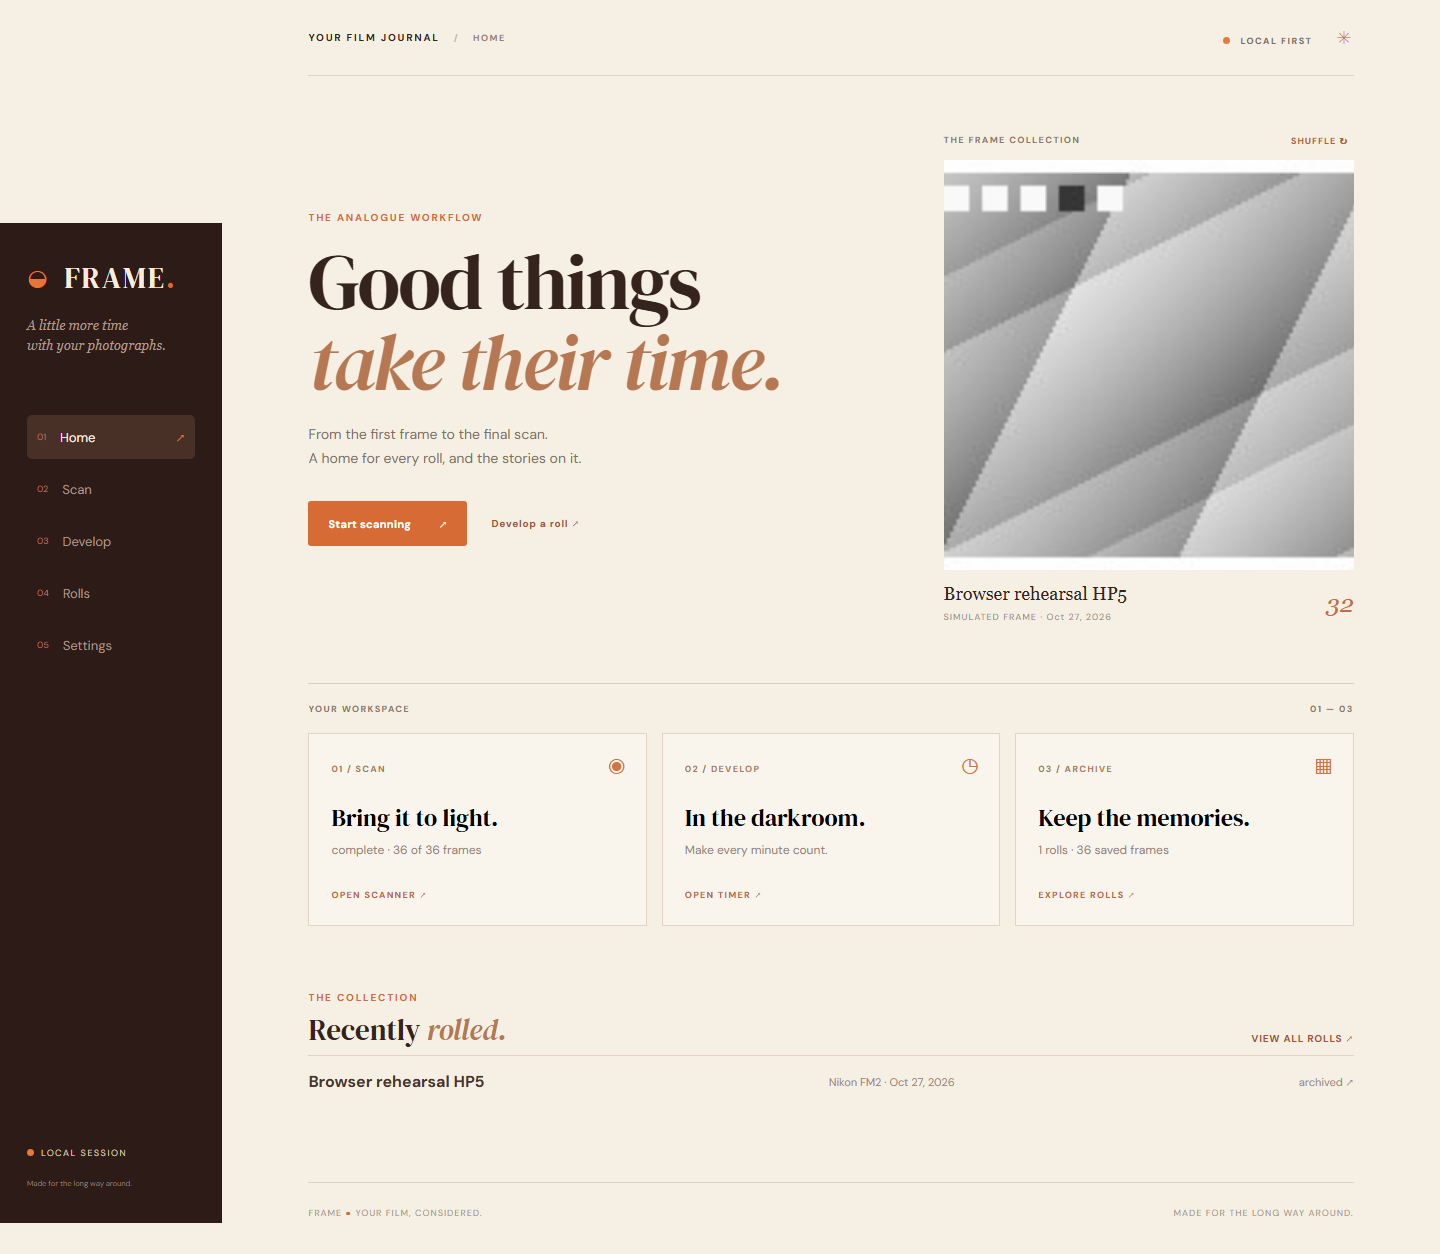
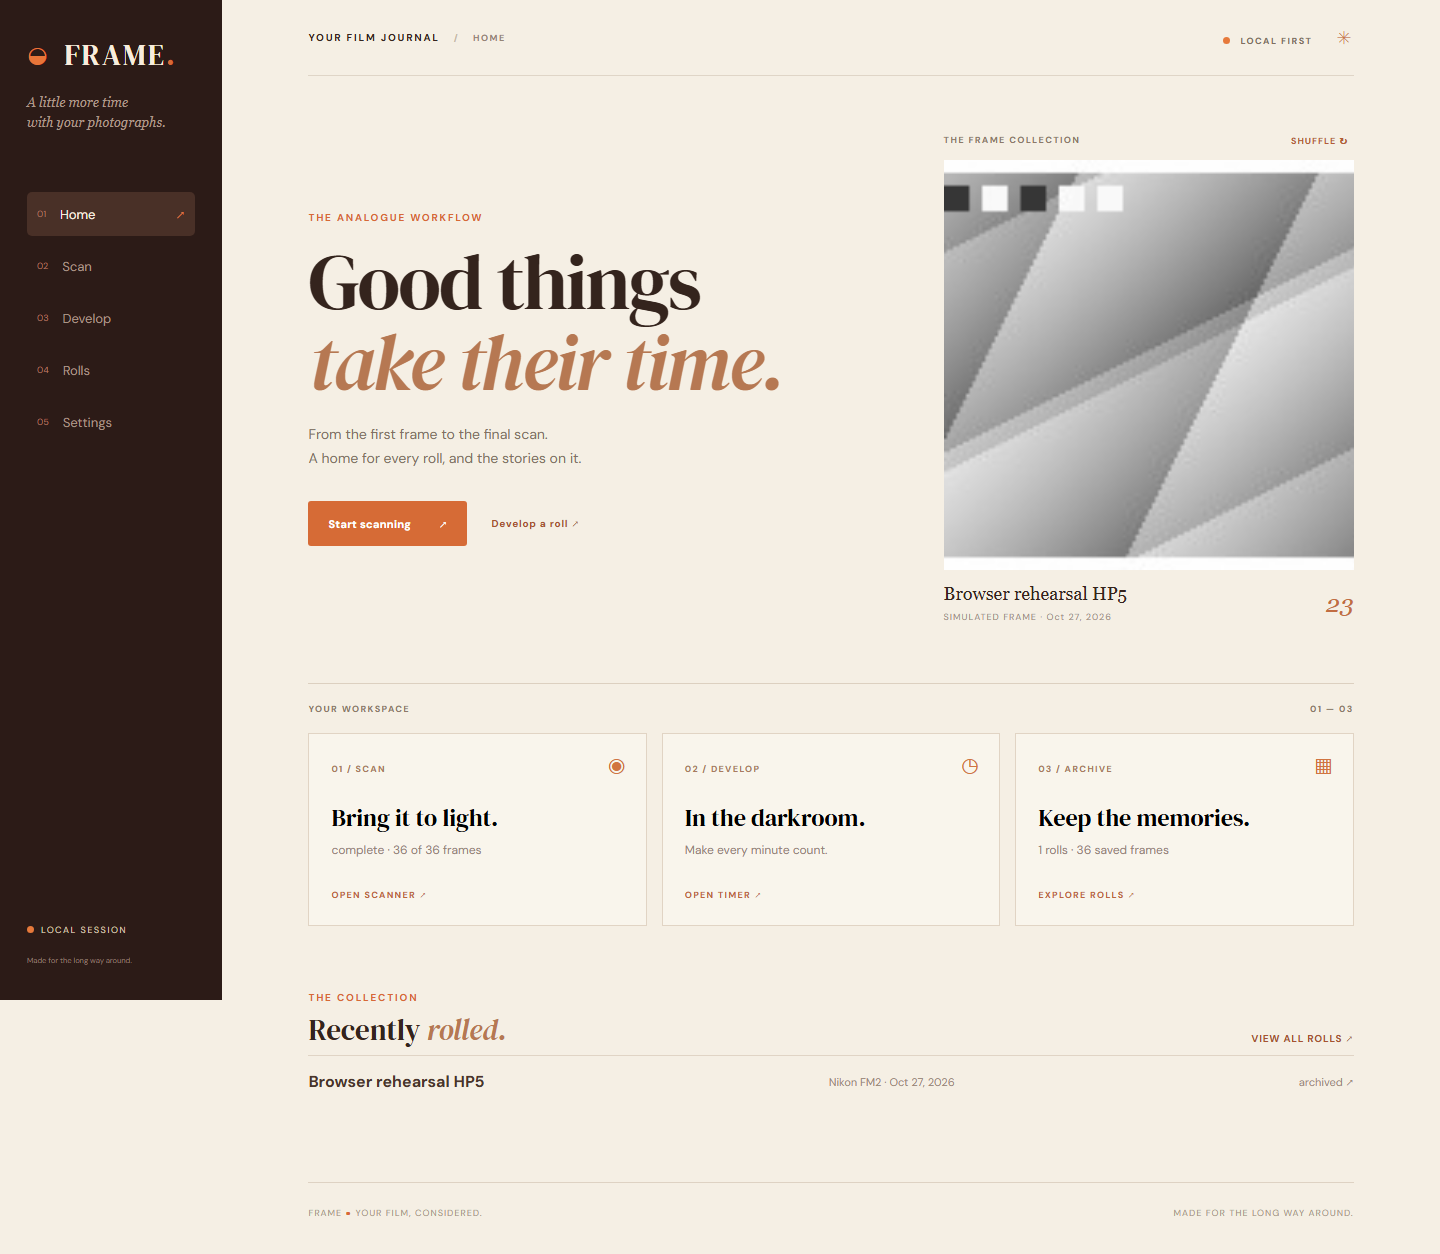
Keep generated build cache local and refine validation evidence

diff --git a/tests/e2e/run_workflow.py b/tests/e2e/run_workflow.py
@@ -158,6 +158,8 @@ def run():
                     mobile.wait_for_selector('main')
                     page.wait_for_timeout(600)
                     assert mobile.evaluate('document.documentElement.scrollWidth <= window.innerWidth + 1')
+                    page.evaluate('window.scrollTo(0, 0)')
+                    mobile.evaluate('window.scrollTo(0, 0)')
                     page.screenshot(path=str(evidence / 'desktop-home.png'), full_page=True)
                     mobile.screenshot(path=str(evidence / 'iphone-home.png'), full_page=True)
                     assert not errors, errors
